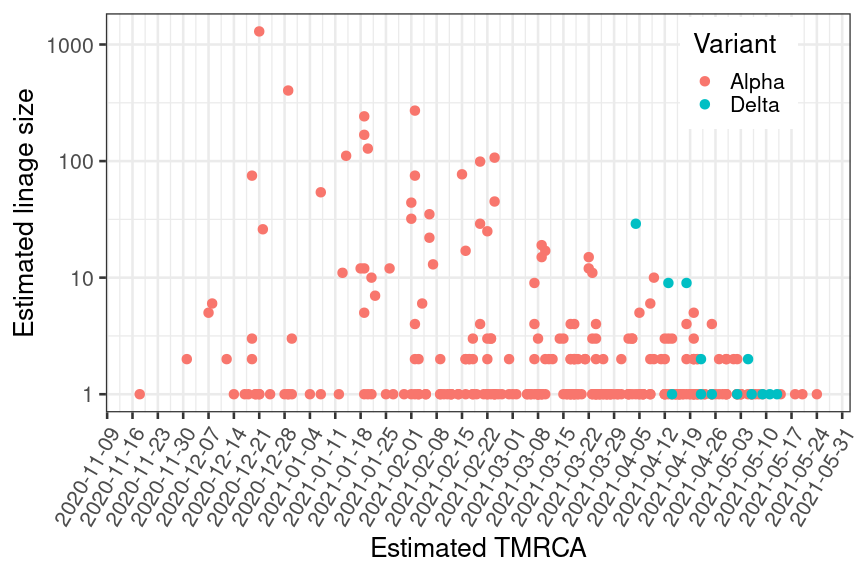
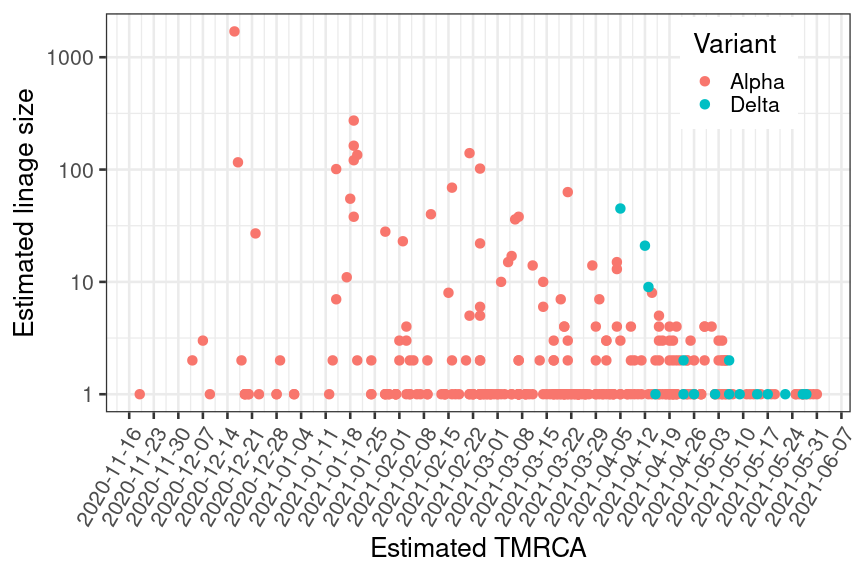
Updated dataset: 2021/06/14

diff --git a/alpha_vs_delta.md b/alpha_vs_delta.md
@@ -1,6 +1,6 @@
 Comparative varianttransmissibility: Alpha vs Delta
 ================
-08/06/2021
+14/06/2021
 
 In these analyses we compare B.1.1.7 (alpha variant) with B.1.617.2
 (delta variant) in terms of lineage sizes in Norway. Each inferred
